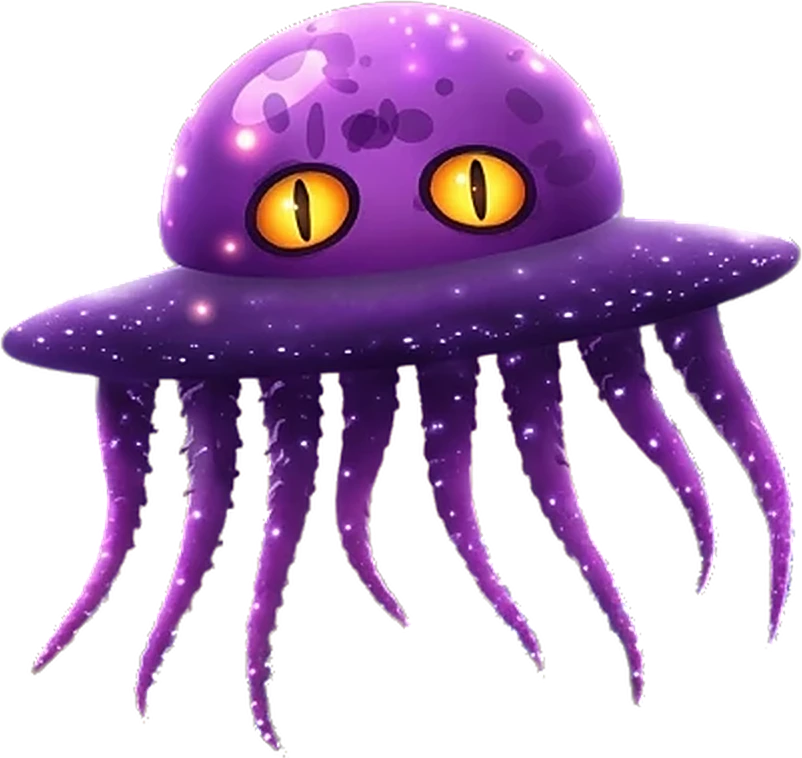
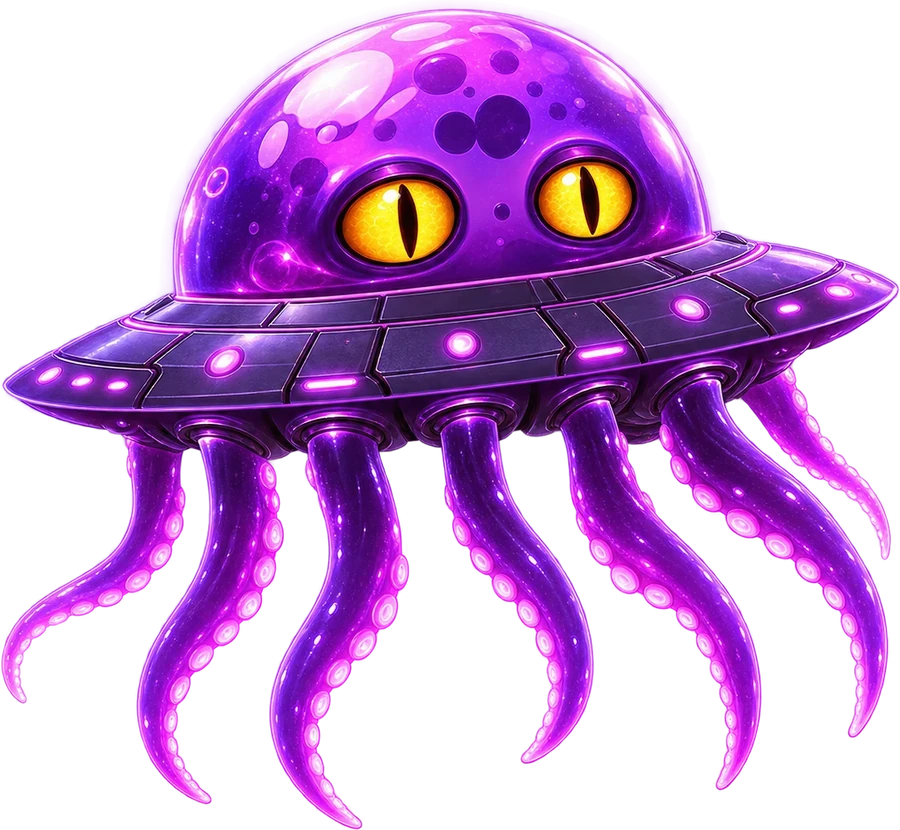
Bạch Tuộc Vũ Trụ dùng art tĩnh mới (900 px, xúc tu uốn bằng lưới biến dạng); bỏ bộ chuyển động 16 khung
Claude-Session: https://claude.ai/code/session_01DzTJH8uJ3h82f7E5uhCtPH

diff --git a/src/game/bosses.ts b/src/game/bosses.ts
@@ -579,7 +579,7 @@ export interface BossArt {
 export const BOSS_ART: Record<BossId, BossArt> = {
   ufo: { url: artUfo, width: 500, cx: 0.5, cy: 0.5, hitRx: 225, hitRy: 70, hitCy: -5, belly: 95 },
   gold: { url: artGold, width: 560, cx: 0.5, cy: 0.52, hitRx: 240, hitRy: 85, hitCy: 0, belly: 95 },
-  octopus: { url: artOctopus, width: 500, cx: 0.5, cy: 0.42, hitRx: 210, hitRy: 120, hitCy: -40, belly: 45 },
+  octopus: { url: artOctopus, width: 520, cx: 0.509, cy: 0.42, hitRx: 220, hitRy: 120, hitCy: -40, belly: 50 },
   stealth: { url: artStealth, width: 660, cx: 0.5, cy: 0.55, hitRx: 290, hitRy: 55, hitCy: 0, belly: 60 },
   spider: { url: artSpider, width: 470, cx: 0.495, cy: 0.43, hitRx: 200, hitRy: 95, hitCy: -15, belly: 130 },
   crystal: { url: artCrystal, width: 420, cx: 0.5, cy: 0.5, hitRx: 160, hitRy: 190, hitCy: 0, belly: 215 },
@@ -591,8 +591,6 @@ export const BOSS_ART: Record<BossId, BossArt> = {
 // Nhập bằng: tools/import_boss_anim.py <thư-mục-bộ-chuyển-động> <boss-id>. Boss có bộ chuyển động thì game dùng nó
 // thay cho art tĩnh; boss chưa có thì vẫn dùng art tĩnh + hiệu ứng code như cũ.
 import type { AnimMeta } from "./anim";
-import octopusAnimMeta from "../assets/bosses/octopus-anim.json";
-import octopusAnimUrl from "../assets/bosses/octopus-anim.webp";
 
 export interface BossAnimDef {
   url: string;
@@ -604,6 +602,4 @@ export interface BossAnimDef {
   hitCy: number;
 }
 
-export const BOSS_ANIM: Partial<Record<BossId, BossAnimDef>> = {
-  octopus: { url: octopusAnimUrl, meta: octopusAnimMeta as AnimMeta, bodyW: 400, hitAspect: 0.62, hitCy: -20 },
-};
+export const BOSS_ANIM: Partial<Record<BossId, BossAnimDef>> = {};

diff --git a/src/game/game.ts b/src/game/game.ts
@@ -2033,9 +2033,9 @@ export class Game {
       }
       case "octopus": {
         const blink = t % 4 < 0.15 ? 0.1 : 1;
-        for (const fx of [0.385, 0.62]) {
+        for (const [fx, fy] of [[0.445, 0.27], [0.652, 0.244]] as const) {
           ctx.globalAlpha = (0.45 + 0.25 * Math.sin(t * 5)) * blink * alpha;
-          const [ex, ey] = at(fx, 0.28);
+          const [ex, ey] = at(fx, fy);
           ctx.drawImage(this.glows[0], ex - 40, ey - 32, 80, 64);
         }
         break;
@@ -2143,7 +2143,7 @@ export class Game {
   }
 
   private octopusWarp(w: number, h: number, t: number) {
-    const ROOT = 0.5;
+    const ROOT = 0.52;
     const swim = Math.sin(t * 1.5);
     const kick = Math.sin(t * 1.5 - 0.9);
     const wild = this.grab ? 1.7 : 1;

diff --git a/README.md b/README.md
@@ -65,7 +65,7 @@ Mỗi kỹ năng có dòng nhắc nhấp nháy trên HUD (vd. `🐙 CỨU AN: 12
 ## Đồ hoạ
 
 - **Trùm** dùng art vẽ tay trong `src/assets/bosses/*.webp`, tách nền từ `art-source/bosses-sheet.webp` bằng `tools/cut_bosses.py` (model BiRefNet + bước làm sạch: bỏ khói/sương/vạch lưới, khử viền màu nền, phóng 2× làm nét).
-- **Bộ chuyển động theo khung** (sprite sheet): boss có bộ chuyển động thì game dùng nó thay art tĩnh — `idle` (lơ lửng), `move` (bay ngang nhanh), `attack` (bắn trả), `hit` (trúng đòn nặng / giãy chết). Đã có: **Bạch Tuộc Vũ Trụ** (16 khung — idle chớp mắt, move bơi nghiêng, attack nheo mắt gom chưởng rồi phóng khi tóm người, hit nhăn mặt). Nhập bộ mới:
+- **Bộ chuyển động theo khung** (sprite sheet): boss có bộ chuyển động thì game dùng nó thay art tĩnh — `idle` (lơ lửng), `move` (bay ngang nhanh), `attack` (bắn trả), `hit` (trúng đòn nặng / giãy chết). Hiện chưa boss nào dùng. Nhập bộ mới:
 
   ```bash
   .venv/bin/python tools/import_boss_anim.py <thư-mục-có-atlas.json> <boss-id>
